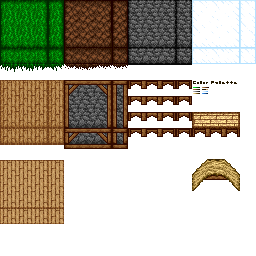
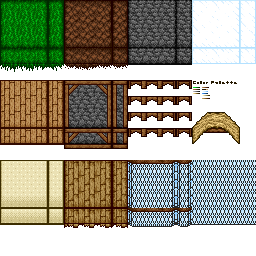
New Walls
Added some new walls, some of which are rendered for the second floor of
the inn on the test map.

New Terrain:
* wallLight - white exterior wall
* woodPlankWeathered - exterior wooden wall
* window - recessed window with segmented glass panes
* windowProtruding - segmented glass pane window sticking out of walls

diff --git a/src/main/GameMain.java b/src/main/GameMain.java
@@ -564,13 +564,12 @@ public class GameMain {
 		world.addThing(jumpStool3, 13, 29, 2);
 		
 		//inn test
-		//bottom and top floor
+		//bottom and top floor and roof
 		for (int i = 25; i < 45; i ++)
 		{
 			for (int j = 30; j < 38; j ++)
 			{
 				t[i][j][0] = new Terrain(dirt, woodPlank);
-				t[i][j][3] = new Terrain(woodSupport, woodPlank);
 			}
 		}
 		//walls
@@ -582,6 +581,11 @@ public class GameMain {
 				if (i < 34 || i > 35)
 					t[i][30][k] = new Terrain(rock);
 			}
+			for (int k = 4; k < 7; k ++)
+			{
+				t[i][37][k] = new Terrain(woodPlankWeathered, thatch);
+				t[i][30][k] = new Terrain(wallLight, thatch);
+			}
 		}
 		for (int j = 30; j < 38; j ++)
 		{
@@ -589,6 +593,27 @@ public class GameMain {
 			{
 				t[25][j][k] = new Terrain(rock);
 				t[44][j][k] = new Terrain(rock);
+			}
+			for (int k = 4; k < 6; k ++)
+			{
+				t[24][j][k] = new Terrain(wallLight, thatch);
+				t[45][j][k] = new Terrain(wallLight, thatch);
+				t[25][j][k] = new Terrain(wallLight, thatch);
+				t[44][j][k] = new Terrain(wallLight, thatch);
+			}
+		}
+		for (int i = 25; i < 45; i ++)
+		{
+			for (int j = 31; j < 37; j ++)
+			{
+				t[i][j][3] = new Terrain(woodSupport, woodPlank);
+			}
+		}
+		for (int i = 25; i < 45; i ++)
+		{
+			for (int j = 31; j < 37; j ++)
+			{
+				t[i][j][6] = new Terrain(woodSupport, thatch);
 			}
 		}
 		
@@ -604,13 +629,26 @@ public class GameMain {
 		t[42][36][3] = new Terrain(air);
 		
 		//windows
-		t[28][30][2] = new Terrain(glass, air);
-		t[29][30][2] = new Terrain(glass, air);
-		t[30][30][2] = new Terrain(glass, air);
+		t[28][30][2] = new Terrain(windowProtruding, air);
+		t[29][30][2] = new Terrain(windowProtruding, air);
+		t[30][30][2] = new Terrain(windowProtruding, air);
 		
-		t[39][30][2] = new Terrain(glass, air);
-		t[40][30][2] = new Terrain(glass, air);
-		t[41][30][2] = new Terrain(glass, air);
+		t[39][30][2] = new Terrain(windowProtruding, air);
+		t[40][30][2] = new Terrain(windowProtruding, air);
+		t[41][30][2] = new Terrain(windowProtruding, air);
+		
+		
+		t[27][30][5] = new Terrain(window, air);
+		t[27][37][5] = new Terrain(window, air);
+		
+		t[32][30][5] = new Terrain(window, air);
+		t[32][37][5] = new Terrain(window, air);
+		
+		t[37][30][5] = new Terrain(window, air);
+		//t[37][37][5] = new Terrain(window, air);
+		
+		t[42][30][5] = new Terrain(window, air);
+		t[42][37][5] = new Terrain(window, air);
 		
 		//house objects
 		Bar b1 = new Bar.BarBuilder().connection(start).build();
@@ -684,6 +722,7 @@ public class GameMain {
 		FireplaceChimney chimney1 = new FireplaceChimney(down);
 		FireplaceChimney chimney2 = new FireplaceChimney(down);
 		FireplaceChimney chimney3 = new FireplaceChimney(down);
+		FireplaceChimney chimney4 = new FireplaceChimney(down);
 		FireplaceChimney chimneytop = new FireplaceChimney(up);
 		world.addThing(fp, 37, 36, 1);
 		world.addThing(fpside1, 36, 36, 1);
@@ -691,7 +730,9 @@ public class GameMain {
 		world.addThing(chimney1, 37, 36, 3);
 		world.addThing(chimney2, 37, 36, 4);
 		world.addThing(chimney3, 37, 36, 5);
-		world.addThing(chimneytop, 37, 36, 6);
+		world.addThing(chimney4, 37, 36, 6);
+		world.addThing(chimneytop, 37, 36, 7);
+		t[37][36][6] = new Terrain(air);
 		
 		Firewood fw1 = new Firewood();
 		Firewood fw2 = new Firewood();

diff --git a/src/world/Terrain.java b/src/world/Terrain.java
@@ -5,7 +5,7 @@ import static world.Terrain.terrainType.*;
 public class Terrain {
 	public enum terrainType
 	{
-		grass, dirt, air, rock, thatch, glass, woodPlank, woodSupport
+		grass, dirt, air, rock, thatch, glass, window, windowProtruding, woodPlank, woodPlankWeathered, woodSupport, wallLight
 	}
 	
 	boolean blocking;
@@ -172,7 +172,7 @@ public class Terrain {
 	private void setTransparent()
 	{
 		//add the names of any new transparent terrain types here
-		if (type == air || type == glass)
+		if (type == air || type == glass || type == window || type == windowProtruding)
 			transparent = true;
 		else
 			transparent = false;
@@ -184,7 +184,7 @@ public class Terrain {
 	private void setUnblended()
 	{
 		//add the names of any new unblended vertical terrain types here
-		if (type == glass || type == woodSupport)
+		if (type == glass || type == window || type == windowProtruding || type == woodSupport)
 			unblendedVertical = true;
 		else
 			unblendedVertical = false;
@@ -216,6 +216,12 @@ public class Terrain {
 			texRow = 1; texCol = 0; break;
 		case woodSupport:
 			texRow = 1; texCol = 2; break;
+		case wallLight:
+			texRow = 2; texCol = 0; break;
+		case woodPlankWeathered:
+			texRow = 2; texCol = 1; break;
+		case windowProtruding: 
+			texRow = 2; texCol = 2; break;
 			
 		//Unset (blank)
 		default:
